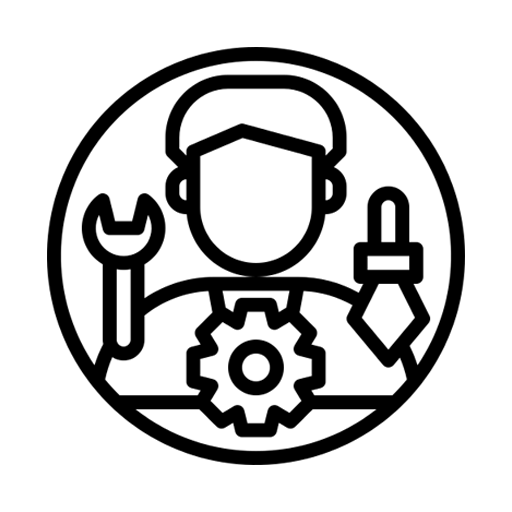
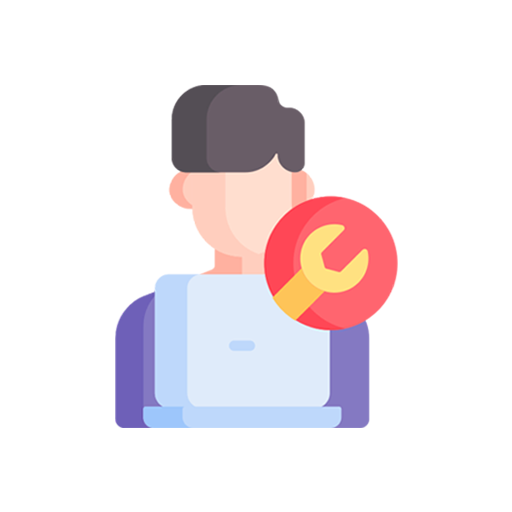
Edited minor errors and change admin picture

diff --git a/pages/admin/covid-19-user.js b/pages/admin/covid-19-user.js
@@ -76,6 +76,10 @@ const styles = {
     justifyContent: 'center',
     alignItems: 'center',
   },
+  boxJustifyWithoutFlex:{
+    justifyContent: 'center',
+    alignItems: 'center',
+  },
   chipStyle: {
     padding: theme.spacing(2),
     margin: theme.spacing(1),
@@ -223,7 +227,7 @@ function Covid19User(props) {
                       </Typography>
                     </Box>
 
-                    <Box className={classes.boxJustify}>
+                    <Box className={classes.boxJustifyWithoutFlex}>
                       {addresses &&
                         addresses.map((address) => (
                           <div key={address.addressId}>
@@ -233,6 +237,7 @@ function Covid19User(props) {
                                 className={classes.cardStyle}
                                 variant="outlined">
                                 <CardBody profile>
+
                                   {/* Address line 1 */}
                                   <Box className={classes.boxJustify}>
                                     <Typography
